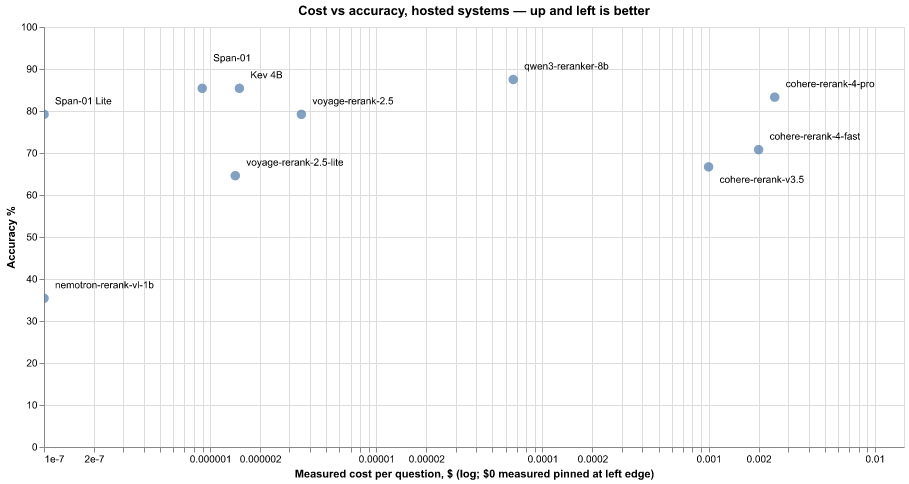
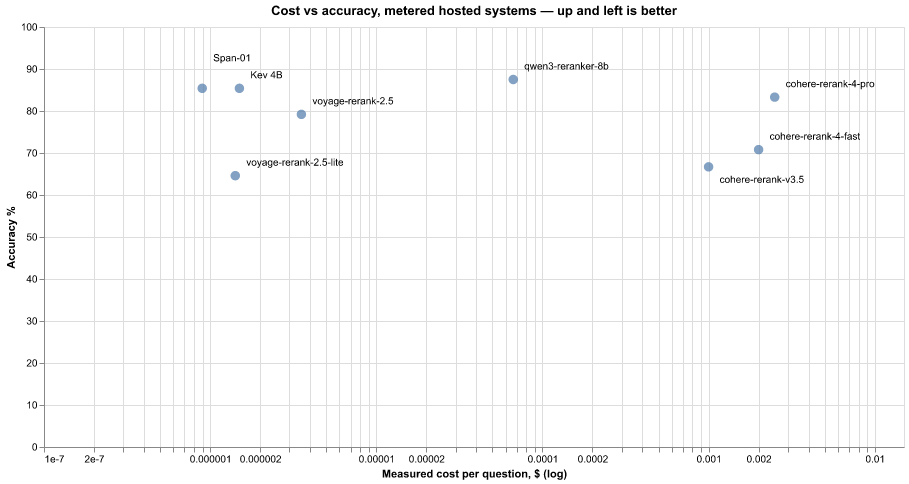
fix(charts): cost charts show metered systems only, no free tiers
Span-01 Lite's plain id is priced $0.0 (same as its :free twin) and
Nemotron runs on the :free variant — both measured $0, so neither
belongs on a cost axis. Both cost chart call sites (web tab + image
export) now filter to usage-reported cost > 0; free rows stay in the
measured-usage table and all accuracy charts. Axis title drops the
$0-pin note, and cost_bars raises Vega's 160px y-label limit so full
system names don't truncate at 8 rows. README charts/intros updated.

diff --git a/app.py b/app.py
@@ -271,17 +271,17 @@ _COST_W, _COST_H = 860, 420
 
 
 def cost_scatter(df: pd.DataFrame, title: str):
-    """Accuracy vs measured cost per question for the hosted systems (the
-    rows that carry a usage block; local systems cost $0 by construction
-    and never appear). Runs that measured $0.00 — free tiers — pin to the
-    log-axis floor at the left edge. Labels are placed by a greedy
-    pixel-space collision search (est. 6.5 px/char, same yardstick as the
-    tradeoff packer): left-aligned off the marker, flipping side and dy
-    until clear of every other marker and placed label, so near-coincident
-    pairs (Span-01 / Kev 4B at ~1e-6) and vertical neighbors (cohere
-    v3.5 under 4-fast) both resolve. Display names drop the "
-    (OpenRouter)" suffix — redundant on an all-OpenRouter chart and 85 px
-    the right edge can't spare; tooltips keep the full system name."""
+    """Accuracy vs measured cost per question for the metered hosted
+    systems (callers filter to usage-reported cost > 0; free tiers and
+    unreported-cost systems stay off a cost axis). Labels are placed by a
+    greedy pixel-space collision search (est. 6.5 px/char, same yardstick
+    as the tradeoff packer): left-aligned off the marker, flipping side
+    and dy until clear of every other marker and placed label, so
+    near-coincident pairs (Span-01 / Kev 4B at ~1e-6) and vertical
+    neighbors (cohere v3.5 under 4-fast) both resolve. Display names drop
+    the " (OpenRouter)" suffix — redundant on an all-OpenRouter chart and
+    85 px the right edge can't spare; tooltips keep the full system
+    name."""
     floor = 1e-7  # $0.0000001/question: a decade below the cheapest paid tier
     plot = df.copy()
     plot["$ per question"] = plot["$ per question"].clip(lower=floor)
@@ -339,8 +339,7 @@ def cost_scatter(df: pd.DataFrame, title: str):
         .mark_circle(size=90)
         .encode(
             x=alt.X("$ per question:Q", scale=xscale,
-                    title="Measured cost per question, $ (log; $0 "
-                          "measured pinned at left edge)"),
+                    title="Measured cost per question, $ (log)"),
             y=alt.Y("Accuracy %:Q", scale=yscale, title="Accuracy %"),
             tooltip=[alt.Tooltip("System:N"),
                      alt.Tooltip("Accuracy %:Q", format=".1f"),
@@ -362,11 +361,10 @@ def cost_scatter(df: pd.DataFrame, title: str):
 
 
 def cost_bars(df: pd.DataFrame, title: str):
-    """Measured cost per classification question, ranked cheapest-first.
-    Log axis; free tiers that measured $0 pin to the same floor the
-    scatter uses and print "$0 (free tier)", paid tiers print scientific
-    notation. Jev never appears — its provider reports tokens but no
-    cost (COST_UNREPORTED)."""
+    """Measured cost per classification question, ranked cheapest-first,
+    for the metered hosted systems (free tiers stay off a cost axis).
+    Log axis; the floor clip is a guard in case a $0 row ever slips
+    through, printing "$0 (free tier)"."""
     floor = 1e-7
     plot = df.copy()
     vals = plot["$ per question"].clip(lower=floor)
@@ -382,7 +380,7 @@ def cost_bars(df: pd.DataFrame, title: str):
         .mark_bar()
         .encode(
             y=alt.Y("System:N", sort=order, title=None,
-                    axis=alt.Axis(labelFontSize=12)),
+                    axis=alt.Axis(labelFontSize=12, labelLimit=280)),
             x=alt.X("_v:Q", scale=xscale,
                     title="Measured cost per question, $ (log)",
                     axis=alt.Axis(format=".0e")),
@@ -521,19 +519,24 @@ def build_classification_tab():
                      label="Measured provider accounting for the hosted "
                            "systems (usage blocks in API responses; Jev's "
                            "provider reports tokens but no cost)")
+        # the cost charts carry metered systems only: $0 free tiers
+        # (Span-01 Lite, Nemotron) and Jev's unreported cost stay in the
+        # table above but not on a cost axis
         cost_summary = pd.DataFrame([
             {"System": s,
              "Accuracy %": round(v["cls_accuracy"] * 100, 1),
              "$ per question": v["usage"]["cost_usd"] / n_q}
             for s, v in hosted.items()
-            if s not in COST_UNREPORTED])
+            if s not in COST_UNREPORTED and v["usage"]["cost_usd"] > 0])
         if len(cost_summary):
             gr.Plot(cost_scatter(
                 cost_summary,
-                "Cost vs accuracy, hosted systems — up and left is better"))
+                "Cost vs accuracy, metered hosted systems — up and left "
+                "is better"))
             gr.Plot(cost_bars(
                 cost_summary,
-                "Measured cost per question, hosted systems (ranked)"))
+                "Measured cost per question, metered hosted systems "
+                "(ranked)"))
 
     thresholds = sorted({round(t / 20, 2) for t in range(21)})
     spec_rows = []

diff --git a/make_chart_images.py b/make_chart_images.py
@@ -54,9 +54,12 @@ def spectrum_charts(bench):
             summary, "Speed vs accuracy — up and left is better"),
     }
 
+    # metered systems only: $0 free tiers (Span-01 Lite, Nemotron) and
+    # Jev's unreported cost stay out of a cost chart
     hosted = {s: v for s, v in systems.items()
               if isinstance(v.get("usage"), dict)
               and v["usage"].get("paid_requests")
+              and v["usage"]["cost_usd"] > 0
               and s not in COST_UNREPORTED}
     if hosted:
         cost_summary = pd.DataFrame([
@@ -66,10 +69,11 @@ def spectrum_charts(bench):
             for s, v in hosted.items()])
         charts["cls_cost"] = cost_scatter(
             cost_summary,
-            "Cost vs accuracy, hosted systems — up and left is better")
+            "Cost vs accuracy, metered hosted systems — up and left "
+            "is better")
         charts["cls_cost_bars"] = cost_bars(
             cost_summary,
-            "Measured cost per question, hosted systems (ranked)")
+            "Measured cost per question, metered hosted systems (ranked)")
 
     thresholds = sorted({round(t / 20, 2) for t in range(21)})
     spec_rows = []

diff --git a/README.md b/README.md
@@ -300,6 +300,12 @@ reconstructed from list prices. Measured on these exact runs (one pass;
 | cohere-rerank-4-pro † | $0.120 | $0.135 | $0.0025 |
 | Jev (cloud) | — | — | not reported ‡ |
 
+The cost charts below plot the **metered** systems only — free-tier
+models bill $0 (Span-01 Lite is priced $0.0 on its plain id, identical
+to its `:free` twin, and Nemotron is benched on the `:free` variant),
+so they stay in this table but never on a cost axis; Jev is off it too
+(‡ no reported cost).
+
 Three things the measurements say that the price lists don't: Cohere
 bills ~2.5 search units per rerank request at 5-6 label documents, so a
 48-question run on 4-pro costs $0.12, not the naive 48 × $0.001; kev-4b
@@ -319,9 +325,9 @@ images (regenerate after re-running the benchmarks with
 
 ![Speed vs accuracy — up and left is better](docs/charts/cls_tradeoff.png)
 
-![Cost vs accuracy, hosted systems — up and left is better](docs/charts/cls_cost.png)
+![Cost vs accuracy, metered hosted systems — up and left is better](docs/charts/cls_cost.png)
 
-![Measured cost per question, hosted systems (ranked)](docs/charts/cls_cost_bars.png)
+![Measured cost per question, metered hosted systems (ranked)](docs/charts/cls_cost_bars.png)
 
 ![Accuracy vs question difficulty](docs/charts/cls_spectrum.png)
 
